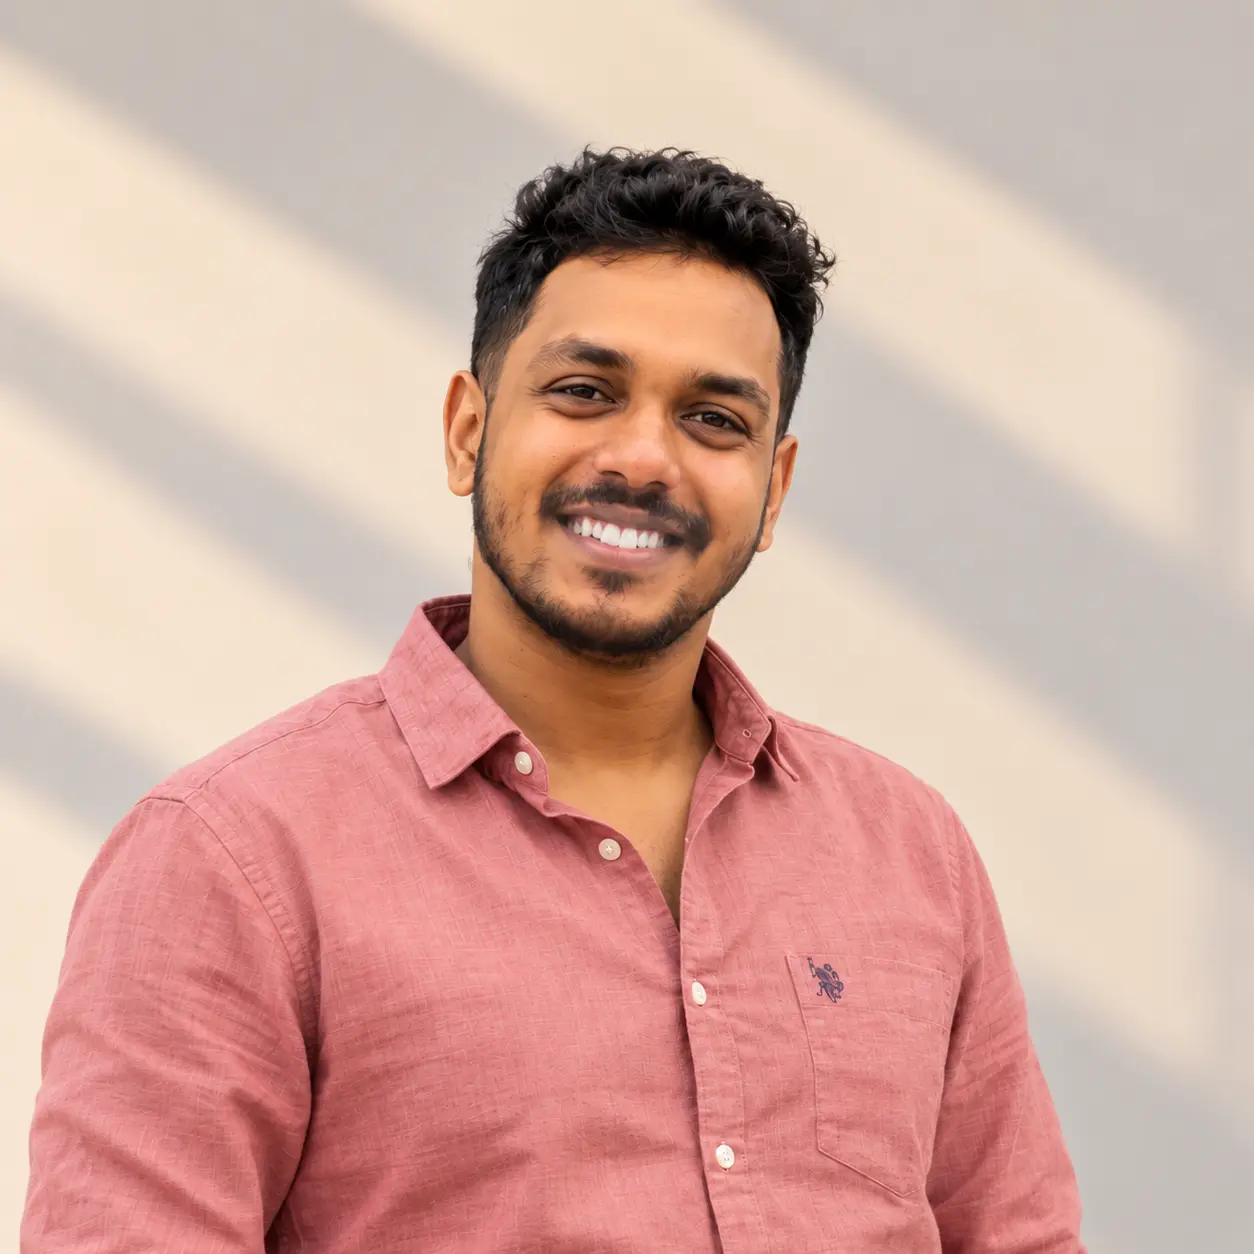
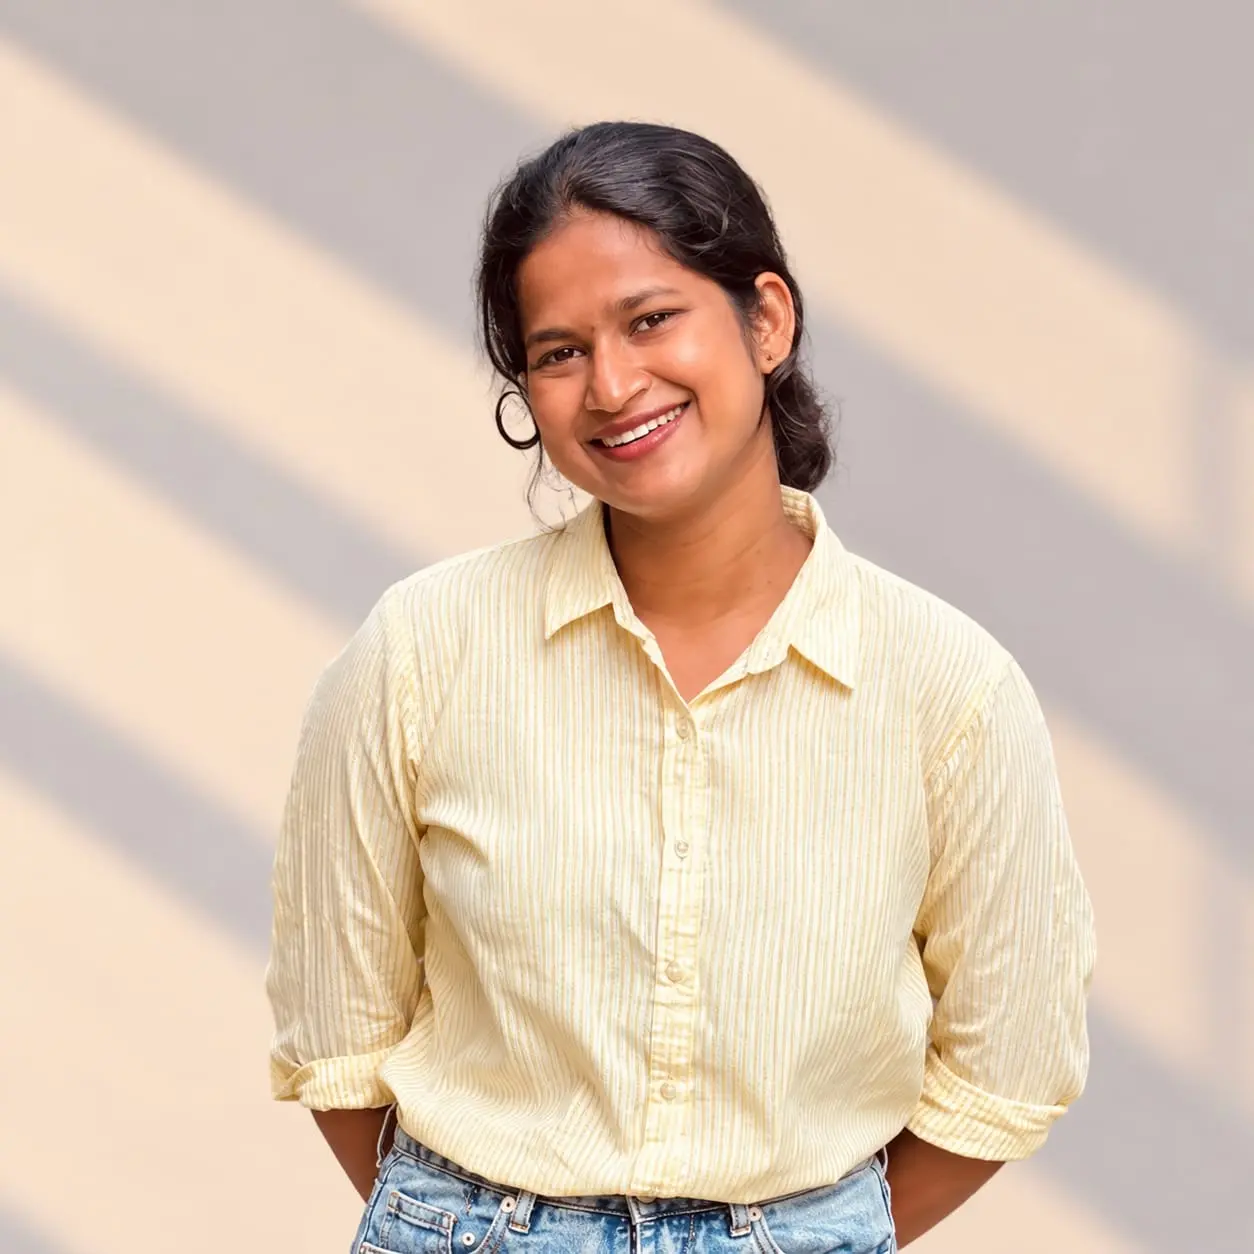
Update site content and sections

diff --git a/lib/data/team.ts b/lib/data/team.ts
@@ -14,8 +14,8 @@ export const leadership: TeamMember[] = [
     image: "/team/naval.webp",
   },
   {
-    name: "Tashreef",
-    role: "Operating Partner / COO",
+    name: "Thashrif",
+    role: "Operating Partner",
     group: "Leadership",
     image: "/team/thashreef.webp",
   },
@@ -28,6 +28,12 @@ export const leadership: TeamMember[] = [
 ];
 
 export const team: TeamMember[] = [
+  {
+    name: "haris hussain",
+    role: "Bussiness Consultant",
+    group: "Team",
+    image: "/team/haris.webp",
+  },
   {
     name: "Naseef",
     role: "E-Commerce Consultant",
@@ -46,6 +52,12 @@ export const team: TeamMember[] = [
     group: "Team",
     image: "/team/althaf.webp",
   },
+    {
+    name: "Athul",
+    role: "CTO & Technology Consultant",
+    group: "Team",
+    image: "/team/athul.webp",
+  },
   {
     name: "Swalik",
     role: "Project Manager",
@@ -60,7 +72,7 @@ export const team: TeamMember[] = [
   // },
   {
     name: "Sneha",
-    role: "Human Resources Executive",
+    role: "Human Resources Manager",
     group: "Team",
     image: "/team/sneha.webp",
   },
@@ -94,52 +106,41 @@ export const team: TeamMember[] = [
   //   group: "Team",
   //   image: "/team/adarsh.webp",
   // },
-  // {
-  //   name: "Afthab",
-  //   role: "Head of Operations & Technology",
-  //   group: "Team",
-  //   image: "/team/afthab.webp",
-  // },
+  {
+    name: "Afthab",
+    role: "Head of Operations & Technology",
+    group: "Team",
+    image: "/team/afthab.webp",
+  },
   {
     name: "Minhaz",
     role: "Sales Manager",
     group: "Team",
     image: "/team/minhaz.webp",
   },
-  // {
-  //   name: "Ajser",
-  //   role: "Creative Director",
-  //   group: "Team",
-  //   image: "/team/ajser.webp",
-  // },
+  {
+    name: "Ajser",
+    role: "Creative Director",
+    group: "Team",
+    image: "/team/ajser.webp",
+  },
   {
     name: "Adithya Shankar",
     role: "Technical Officer",
     group: "Team",
-    image: "/team/adithya.webp",
+    image: "/team/adithyashanker.webp",
   },
-  // {
-  //   name: "Althaf",
-  //   role: "Technical Officer",
-  //   group: "Team",
-  //   image: "/team/althaf-technical-officer.webp",
-  // },
   {
     name: "Faheem",
     role: "Marketing Executive",
     group: "Team",
     image: "/team/faheem.webp",
   },
-  //   {
-  //   name: "Adithya",
-  //   role: "Events Coordinator",
-  //   group: "Team",
-  //   image: "/team/adithyas.webp",
-  // },
-      {
-    name: "haris hussain",
+    {
+    name: "Adithya",
     role: "Events Coordinator",
     group: "Team",
-    image: "/team/haris.webp",
+    image: "/team/adithya.webp",
   },
+
 ];

diff --git a/components/LocationMaps.tsx b/components/LocationMaps.tsx
@@ -1,0 +1,62 @@
+import Reveal from "./Reveal";
+
+const locations = [
+  {
+    city: "Kozhikode",
+    name: "Backline Ventures",
+    address: [
+      "Hilite Metromax N, On the road to H. Thondayad Bypass,",
+      "Nellikkode, Kozhikode,",
+      "Keralam 673016",
+    ],
+    query:
+      "Backline Ventures, Hilite Metromax N, Thondayad Bypass, Nellikkode, Kozhikode, Kerala 673016",
+  },
+  {
+    city: "Bengaluru",
+    name: "Backline Ventures",
+    address: [
+      "Room No. 502, JP Plaza,",
+      "Kada Agrahara, Sarjapur,",
+      "Bengaluru, Karnataka - 562125",
+    ],
+    query:
+      "Backline Ventures, Room No. 502, JP Plaza, Kada Agrahara, Sarjapur, Bengaluru, Karnataka 562125",
+  },
+];
+
+export default function LocationMaps() {
+  return (
+    <div className="grid md:grid-cols-2 gap-6 md:gap-7">
+      {locations.map((loc, i) => (
+        <Reveal key={loc.city} delay={i * 0.1}>
+          <div className="rounded-2xl border border-line bg-card p-3 md:p-4">
+            <iframe
+              title={`${loc.name}, ${loc.city}`}
+              src={`https://www.google.com/maps?q=${encodeURIComponent(
+                loc.query
+              )}&output=embed`}
+              className="h-[300px] md:h-[380px] w-full rounded-xl border-0"
+              loading="lazy"
+              referrerPolicy="no-referrer-when-downgrade"
+              allowFullScreen
+            />
+            <div className="px-2 pt-6 pb-3 md:px-3">
+              <p className="eyebrow">{loc.city}</p>
+              <h3 className="font-display text-xl md:text-2xl mt-3">
+                {loc.name}
+              </h3>
+              <address className="mt-4 not-italic text-sm md:text-base leading-relaxed text-ink-soft">
+                {loc.address.map((line) => (
+                  <span key={line} className="block">
+                    {line}
+                  </span>
+                ))}
+              </address>
+            </div>
+          </div>
+        </Reveal>
+      ))}
+    </div>
+  );
+}

diff --git a/app/contact/page.tsx b/app/contact/page.tsx
@@ -1,6 +1,8 @@
 import type { Metadata } from "next";
 import Reveal from "@/components/Reveal";
-import ContactForm from "@/components/ContactForm";
+import ContactImage from "@/components/ContactImage";
+import LocationMaps from "@/components/LocationMaps";
+import SectionHeading from "@/components/SectionHeading";
 
 export const metadata: Metadata = {
   title: "Contact",
@@ -48,7 +50,8 @@ function InstagramIcon() {
 
 export default function ContactPage() {
   return (
-    <section className="container-px pt-40 pb-28 md:pt-52 md:pb-36">
+    <>
+    <section className="container-px pt-40 pb-16 md:pt-52 md:pb-20">
       <div className="grid lg:grid-cols-[1fr_1.2fr] gap-16 lg:gap-24">
         <div>
           <Reveal>
@@ -104,10 +107,17 @@ export default function ContactPage() {
           </Reveal>
         </div>
 
-        <Reveal delay={0.15}>
-          <ContactForm />
+        <Reveal delay={0.15} className="h-full">
+          <ContactImage />
         </Reveal>
       </div>
     </section>
+
+    <section className="container-px pb-28 md:pb-36">
+      <div className="mt-12">
+        <LocationMaps />
+      </div>
+    </section>
+    </>
   );
 }

diff --git a/app/team/page.tsx b/app/team/page.tsx
@@ -88,13 +88,13 @@ export default function TeamPage() {
       </section>
 
       {/* Joining note */}
-      <section className="container-px py-24 md:py-32">
+      {/* <section className="container-px py-24 md:py-32">
         <SectionHeading
           eyebrow="Growing the team"
           title="We build the team around the venture."
           description="As new partnerships come on board, we bring in the specific brand, product, technology or legal capability each opportunity needs — rather than staffing up before there's a venture to staff for."
         />
-      </section>
+      </section> */}
 
       <CTA />
     </>

diff --git a/components/ContactImage.tsx b/components/ContactImage.tsx
@@ -1,0 +1,14 @@
+export default function ContactImage() {
+  return (
+    <div className="relative w-full h-[320px] sm:h-[400px] lg:h-full rounded-2xl overflow-hidden bg-ink border border-line">
+      {/* eslint-disable-next-line @next/next/no-img-element */}
+      <img
+        src="/backline-image-3.avif"
+        alt="BACKLINE VENTURES"
+        decoding="async"
+        className="absolute inset-0 h-full w-full object-cover grayscale contrast-125 brightness-[0.7]"
+      />
+      <div className="absolute inset-0 bg-gradient-to-t from-ink/60 via-transparent to-transparent" />
+    </div>
+  );
+}

diff --git a/lib/data/companies.ts b/lib/data/companies.ts
@@ -11,4 +11,5 @@ export const companies: Company[] = [
   { name: "kaffaway", logo: "/patner/kaffaway.webp" },
   { name: "xchool", logo: "/patner/xchool.webp" },
   { name: "workhex", logo: "/patner/workhex.webp" },
+  { name: "planotech.webp", logo: "/patner/planotech.webp" },
 ];

diff --git a/lib/data/services.ts b/lib/data/services.ts
@@ -113,7 +113,7 @@ export const services: ServiceDetail[] = [
     ],
   },
   {
-    slug: "business-partner",
+    slug: "managing-partner",
     number: "02",
     title: "Business Management",
     headline: "We don't only build businesses. We can also fix and operate them.",
